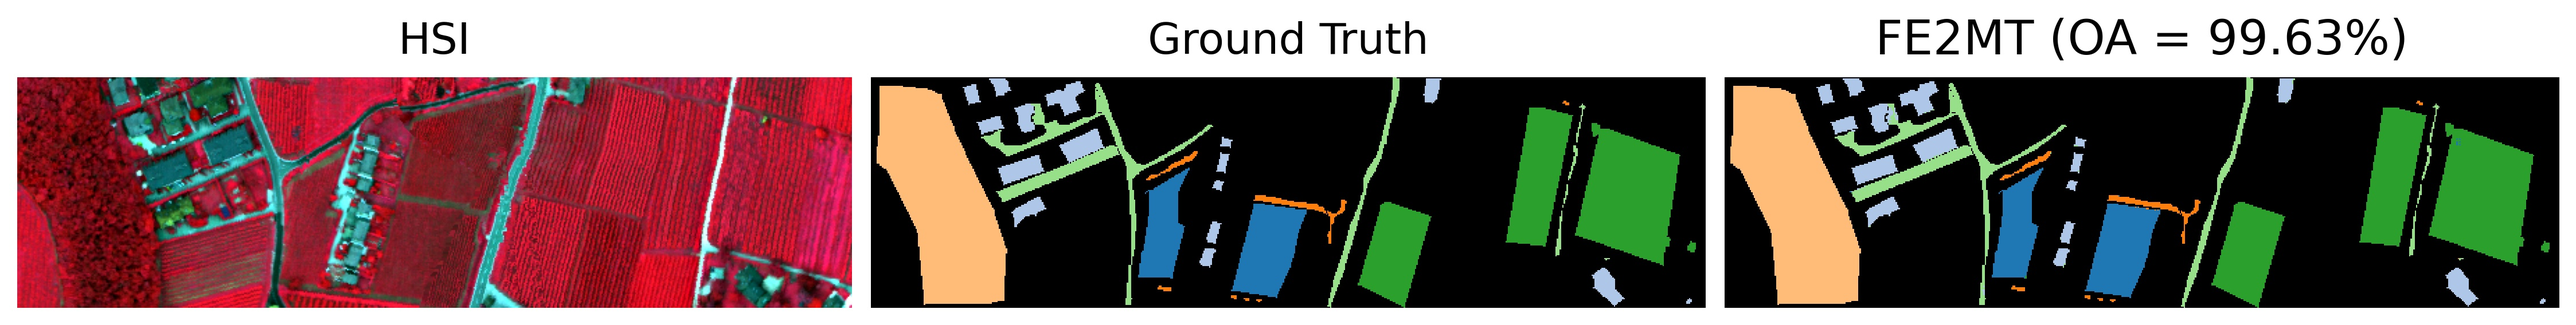
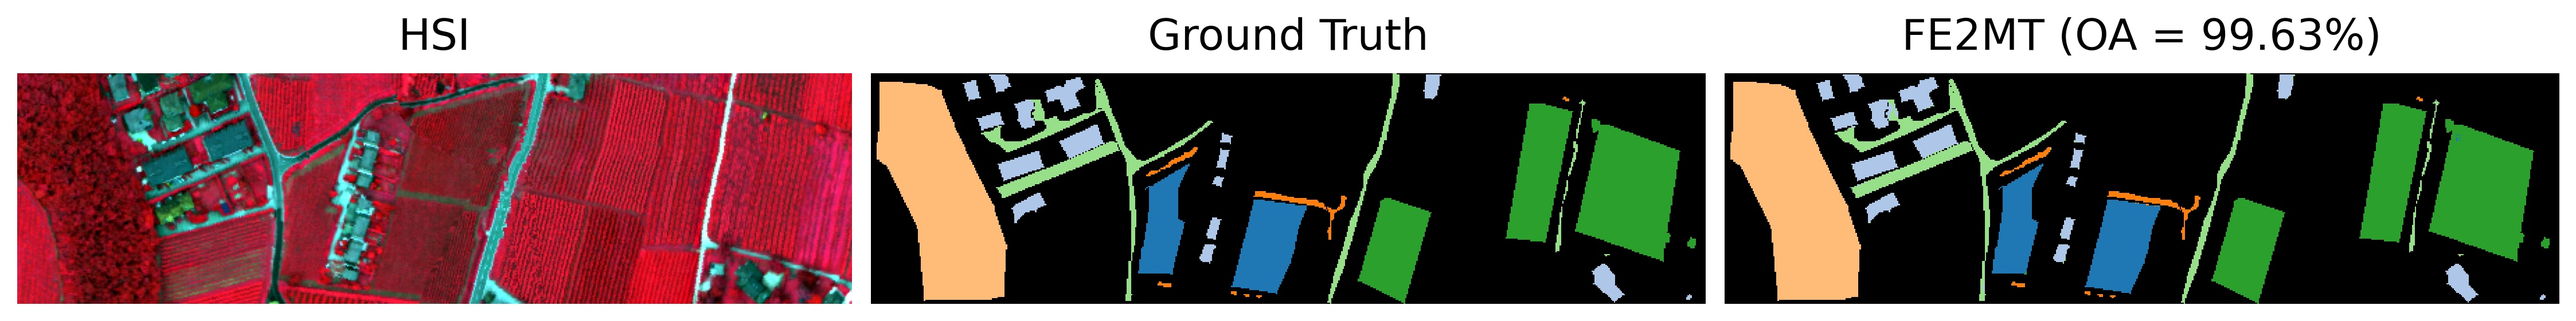
Update figure title font size

diff --git a/visualize_results.py b/visualize_results.py
@@ -259,7 +259,7 @@ def save_result_figure(
     )
     axes[2].set_title(
         f"FE2MT (OA = {oa * 100:.2f}%)",
-        fontsize=20,
+        fontsize=18,
         pad=10,
     )
 
